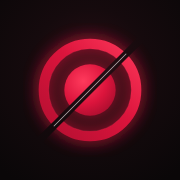
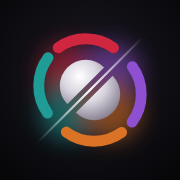
Rebrand to Clean Cut with a note-colour mark
- Name Clean Cut everywhere users see it (storage keys unchanged, so data
  carries over); top ranks become Sterling Baron / Sterling Emperor
- New mark: ring of the four note colours around a silver disc, sliced
  along the diagonal with the halves slid apart and a blade glint
- Regenerated app icons, maskable icon, favicon and all iOS launch
  screens (dev/make-icons.cjs renders them)
- Header and boot use the new mark; boot deals the arcs in, flashes the
  blade and splits the disc; wordmark 'Cut' in a four-note gradient
- SW cache v4

Claude-Session: https://claude.ai/code/session_016FJFa78rQehJuqZQJNCw58

diff --git a/index.html b/index.html
@@ -9,8 +9,8 @@
 <meta name="apple-mobile-web-app-capable" content="yes">
 <meta name="mobile-web-app-capable" content="yes">
 <meta name="apple-mobile-web-app-status-bar-style" content="black-translucent">
-<meta name="apple-mobile-web-app-title" content="Crimson Cut">
-<meta name="application-name" content="Crimson Cut">
+<meta name="apple-mobile-web-app-title" content="Clean Cut">
+<meta name="application-name" content="Clean Cut">
 <meta name="format-detection" content="telephone=no">
 
 <link rel="manifest" href="manifest.webmanifest">
@@ -32,7 +32,7 @@
 <link rel="preload" href="fonts/big-shoulders-display-latin.woff2" as="font" type="font/woff2" crossorigin>
 <link rel="preload" href="fonts/figtree-latin.woff2" as="font" type="font/woff2" crossorigin>
 <link rel="stylesheet" href="css/fonts.css">
-<title>Crimson Cut</title>
+<title>Clean Cut</title>
 <meta name="description" content="Carve every paycheck into buckets with a blade.">
 <link rel="stylesheet" href="css/app.css">
 </head>
@@ -43,20 +43,15 @@
 
 <!-- boot splash -->
 <div id="boot" class="boot" aria-hidden="true">
-  <svg class="boot-logo" viewBox="0 0 48 48">
-    <circle class="ring" cx="24" cy="24" r="19" fill="none" style="stroke:var(--crimson)" stroke-width="4"/>
-    <circle class="core" cx="24" cy="24" r="10" style="fill:var(--crimson)"/>
-    <path class="cut" d="M4 44 L44 4" stroke="#09090C" stroke-width="5" stroke-linecap="round"/>
-    <path class="edge" d="M4 44 L44 4" stroke="#F4ECEE" stroke-width="1.2" stroke-linecap="round"/>
-  </svg>
-  <div class="boot-word"><span>Crimson</span><span>Cut</span></div>
+  <svg class="boot-logo mark" viewBox="0 0 48 48"><defs><radialGradient id="svb" cx="38%" cy="32%" r="75%"><stop offset="0" stop-color="#FFFFFF"/><stop offset=".45" stop-color="#D9D5DF"/><stop offset="1" stop-color="#7E7788"/></radialGradient><clipPath id="cab"><polygon points="-10,-10 58,-10 -10,58"/></clipPath><clipPath id="cbb"><polygon points="58,-10 58,58 -10,58"/></clipPath></defs><g class="half-a"><g clip-path="url(#cab)"><g transform="rotate(-125.95 24 24)"><circle class="arc" style="--i:0" cx="24" cy="24" r="19" fill="none" stroke="#D0263F" stroke-width="4.4" stroke-linecap="round" stroke-dasharray="23.85 95.54" stroke-dashoffset="0.00"/><circle class="arc" style="--i:1" cx="24" cy="24" r="19" fill="none" stroke="#8E4FD0" stroke-width="4.4" stroke-linecap="round" stroke-dasharray="23.85 95.54" stroke-dashoffset="-29.85"/><circle class="arc" style="--i:2" cx="24" cy="24" r="19" fill="none" stroke="#DB7326" stroke-width="4.4" stroke-linecap="round" stroke-dasharray="23.85 95.54" stroke-dashoffset="-59.69"/><circle class="arc" style="--i:3" cx="24" cy="24" r="19" fill="none" stroke="#1F9C95" stroke-width="4.4" stroke-linecap="round" stroke-dasharray="23.85 95.54" stroke-dashoffset="-89.54"/></g><circle class="core" cx="24" cy="24" r="10.5" fill="url(#svb)"/></g></g><g class="half-b"><g clip-path="url(#cbb)"><g transform="rotate(-125.95 24 24)"><circle class="arc" style="--i:0" cx="24" cy="24" r="19" fill="none" stroke="#D0263F" stroke-width="4.4" stroke-linecap="round" stroke-dasharray="23.85 95.54" stroke-dashoffset="0.00"/><circle class="arc" style="--i:1" cx="24" cy="24" r="19" fill="none" stroke="#8E4FD0" stroke-width="4.4" stroke-linecap="round" stroke-dasharray="23.85 95.54" stroke-dashoffset="-29.85"/><circle class="arc" style="--i:2" cx="24" cy="24" r="19" fill="none" stroke="#DB7326" stroke-width="4.4" stroke-linecap="round" stroke-dasharray="23.85 95.54" stroke-dashoffset="-59.69"/><circle class="arc" style="--i:3" cx="24" cy="24" r="19" fill="none" stroke="#1F9C95" stroke-width="4.4" stroke-linecap="round" stroke-dasharray="23.85 95.54" stroke-dashoffset="-89.54"/></g><circle class="core" cx="24" cy="24" r="10.5" fill="url(#svb)"/></g></g><path class="blade" d="M3 45 L45 3" stroke="#fff" stroke-width=".9" stroke-linecap="round"/></svg>
+  <div class="boot-word"><span>Clean</span><span>Cut</span></div>
 </div>
 
 <div class="app" id="app">
   <header class="hdr">
-    <div class="hdr-brand" aria-label="Crimson Cut">
-      <svg viewBox="0 0 48 48" aria-hidden="true"><circle cx="24" cy="24" r="19" fill="none" style="stroke:var(--crimson)" stroke-width="4"/><circle cx="24" cy="24" r="10" style="fill:var(--crimson)"/><path d="M6 42 L42 6" stroke="#09090C" stroke-width="5" stroke-linecap="round"/><path d="M6 42 L42 6" stroke="#F4ECEE" stroke-width="1.2" stroke-linecap="round" opacity=".7"/></svg>
-      <span class="hdr-word">Crimson<b>Cut</b></span>
+    <div class="hdr-brand" aria-label="Clean Cut">
+      <svg class="mark" viewBox="0 0 48 48" aria-hidden="true"><defs><radialGradient id="svh" cx="38%" cy="32%" r="75%"><stop offset="0" stop-color="#FFFFFF"/><stop offset=".45" stop-color="#D9D5DF"/><stop offset="1" stop-color="#7E7788"/></radialGradient><clipPath id="cah"><polygon points="-10,-10 58,-10 -10,58"/></clipPath><clipPath id="cbh"><polygon points="58,-10 58,58 -10,58"/></clipPath></defs><g class="half-a"><g clip-path="url(#cah)"><g transform="rotate(-125.95 24 24)"><circle class="arc" style="--i:0" cx="24" cy="24" r="19" fill="none" stroke="#D0263F" stroke-width="4.4" stroke-linecap="round" stroke-dasharray="23.85 95.54" stroke-dashoffset="0.00"/><circle class="arc" style="--i:1" cx="24" cy="24" r="19" fill="none" stroke="#8E4FD0" stroke-width="4.4" stroke-linecap="round" stroke-dasharray="23.85 95.54" stroke-dashoffset="-29.85"/><circle class="arc" style="--i:2" cx="24" cy="24" r="19" fill="none" stroke="#DB7326" stroke-width="4.4" stroke-linecap="round" stroke-dasharray="23.85 95.54" stroke-dashoffset="-59.69"/><circle class="arc" style="--i:3" cx="24" cy="24" r="19" fill="none" stroke="#1F9C95" stroke-width="4.4" stroke-linecap="round" stroke-dasharray="23.85 95.54" stroke-dashoffset="-89.54"/></g><circle class="core" cx="24" cy="24" r="10.5" fill="url(#svh)"/></g></g><g class="half-b"><g clip-path="url(#cbh)"><g transform="rotate(-125.95 24 24)"><circle class="arc" style="--i:0" cx="24" cy="24" r="19" fill="none" stroke="#D0263F" stroke-width="4.4" stroke-linecap="round" stroke-dasharray="23.85 95.54" stroke-dashoffset="0.00"/><circle class="arc" style="--i:1" cx="24" cy="24" r="19" fill="none" stroke="#8E4FD0" stroke-width="4.4" stroke-linecap="round" stroke-dasharray="23.85 95.54" stroke-dashoffset="-29.85"/><circle class="arc" style="--i:2" cx="24" cy="24" r="19" fill="none" stroke="#DB7326" stroke-width="4.4" stroke-linecap="round" stroke-dasharray="23.85 95.54" stroke-dashoffset="-59.69"/><circle class="arc" style="--i:3" cx="24" cy="24" r="19" fill="none" stroke="#1F9C95" stroke-width="4.4" stroke-linecap="round" stroke-dasharray="23.85 95.54" stroke-dashoffset="-89.54"/></g><circle class="core" cx="24" cy="24" r="10.5" fill="url(#svh)"/></g></g><path class="blade" d="M3 45 L45 3" stroke="#fff" stroke-width=".9" stroke-linecap="round"/></svg>
+      <span class="hdr-word">Clean<b>Cut</b></span>
     </div>
     <button class="rank-pill" id="rankPill" aria-label="Your rank">
       <svg viewBox="0 0 36 36" class="rank-ring"><circle cx="18" cy="18" r="15" class="rr-track"/><circle cx="18" cy="18" r="15" class="rr-fill" id="rankRing"/></svg>
@@ -89,7 +84,7 @@
             <span class="note-denom" id="noteDenom" aria-hidden="true">50</span>
             <span class="note-top"><span class="note-label">This paycheck</span><span class="note-serial tab" id="noteSerial">CC-0001</span></span>
             <span class="note-amt"><span class="note-sym" id="noteSym">£</span><span class="odo" id="payOdo"></span></span>
-            <span class="note-bottom"><span class="micro">Crimson Cut · Legal tender for your own bullshit</span><span class="note-edit">Tap to edit</span></span>
+            <span class="note-bottom"><span class="micro">Clean Cut · Legal tender for your own bullshit</span><span class="note-edit">Tap to edit</span></span>
             <span class="example-tag" id="exampleTag">Example numbers</span>
           </button>
           <div class="chips freq" id="freq" role="group" aria-label="Pay frequency">
@@ -276,7 +271,7 @@
     <p class="hint">In Safari tap <b>Share</b>, then <b>Add to Home Screen</b>. It opens full screen like a real app and works offline.</p>
   </div>
   <button class="btn-primary" id="setDone">Done</button>
-  <p class="ver">Crimson Cut v3</p>
+  <p class="ver">Clean Cut v4</p>
 </div>
 
 <!-- cutscene stage -->

diff --git a/css/app.css b/css/app.css
@@ -53,10 +53,20 @@ button{cursor:pointer;touch-action:manipulation;-webkit-user-select:none;user-se
 /* ---------- boot ---------- */
 .boot{position:fixed;inset:0;z-index:100;background:var(--black);display:grid;place-content:center;justify-items:center;gap:18px;transition:opacity .5s ease,visibility .5s}
 .boot.gone{opacity:0;visibility:hidden}
-.boot-logo{width:96px;height:96px;overflow:visible;filter:drop-shadow(0 0 24px rgba(var(--a1),.7))}
-.boot-logo .ring{stroke-dasharray:120;stroke-dashoffset:120;animation:draw .7s var(--ease-out) forwards}
-.boot-logo .core{transform-origin:24px 24px;transform:scale(0);animation:corePop .45s var(--spring) .35s forwards}
-.boot-logo .cut,.boot-logo .edge{stroke-dasharray:57;stroke-dashoffset:57;animation:draw .18s ease-in .75s forwards}
+.boot-logo{width:104px;height:104px;overflow:visible;filter:drop-shadow(0 0 26px rgba(255,255,255,.12))}
+.mark .half-a,.mark .half-b{transform:translate(-1.7px,-1.7px)}
+.mark .half-b{transform:translate(1.7px,1.7px)}
+.mark .blade{opacity:.8;stroke-dasharray:60;stroke-dashoffset:0}
+/* boot: arcs deal in, the core lands, the blade flashes through, the halves slide apart */
+.boot-logo .arc{stroke-dasharray:0 120;animation:arcIn .55s var(--ease-out) forwards;animation-delay:calc(var(--i) * 70ms)}
+@keyframes arcIn{to{stroke-dasharray:23.85 95.53}}
+.boot-logo .core{transform-origin:24px 24px;transform:scale(0);animation:corePop .45s var(--spring) .3s forwards}
+.boot-logo .half-a,.boot-logo .half-b{transform:none;animation:halfA .45s var(--spring) .82s forwards}
+.boot-logo .half-b{animation-name:halfB}
+@keyframes halfA{to{transform:translate(-1.7px,-1.7px)}}
+@keyframes halfB{to{transform:translate(1.7px,1.7px)}}
+.boot-logo .blade{stroke-dashoffset:60;opacity:1;animation:draw .16s ease-in .72s forwards,bladeFade .5s ease-out .9s forwards}
+@keyframes bladeFade{to{opacity:.8}}
 @keyframes draw{to{stroke-dashoffset:0}}
 @keyframes corePop{to{transform:scale(1)}}
 .boot-word{display:flex;gap:.12em;font-family:var(--display);font-weight:900;font-size:44px;letter-spacing:.04em;text-transform:uppercase;line-height:1}
@@ -71,7 +81,7 @@ button{cursor:pointer;touch-action:manipulation;-webkit-user-select:none;user-se
 .app{position:relative;z-index:1;min-height:100dvh}
 .hdr{position:sticky;top:0;z-index:30;display:flex;align-items:center;gap:8px;padding:calc(var(--sat) + 10px) 16px 10px;background:linear-gradient(180deg,rgba(9,9,12,.92),rgba(9,9,12,.55) 70%,transparent);-webkit-backdrop-filter:blur(10px);backdrop-filter:blur(10px)}
 .hdr-brand{display:flex;align-items:center;gap:8px;margin-right:auto;min-width:0}
-.hdr-brand svg{width:30px;height:30px;flex:none;filter:drop-shadow(0 0 10px rgba(var(--a1),.6))}
+.hdr-brand svg{width:32px;height:32px;flex:none;overflow:visible;filter:drop-shadow(0 0 8px rgba(255,255,255,.1))}
 .hdr-word{font-family:var(--display);font-weight:900;font-size:22px;text-transform:uppercase;letter-spacing:.03em;line-height:1}
 .hdr-word b{color:var(--crimson);font-weight:900}
 @media (max-width:430px){.hdr-word{display:none}}
@@ -573,3 +583,6 @@ body,.note,.btn-primary,.chip,.cut-track,.tabbar,.pending-strip{transition-prope
 .note-pick [data-note="20"]{--nc:#8E4FD0}.note-pick [data-note="10"]{--nc:#DB7326}.note-pick [data-note="5"]{--nc:#1F9C95}
 .note-pick button[aria-pressed="true"]{border-color:#fff;transform:translateY(-2px) scale(1.06);box-shadow:0 6px 18px -4px var(--nc)}
 .note-pick button:active{transform:scale(.92)}
+/* brand wordmark: "Cut" wears all four notes, whatever theme is picked */
+.hdr-word b,.boot-word span:last-child{background:linear-gradient(90deg,#FF4B62,#B98AF5 40%,#FFA257 70%,#4FD6CE);-webkit-background-clip:text;background-clip:text;color:transparent;text-shadow:none}
+.boot-word span:last-child{filter:drop-shadow(0 0 18px rgba(185,138,245,.35))}

diff --git a/js/vaultdoor.js b/js/vaultdoor.js
@@ -1,4 +1,4 @@
-// Crimson Cut - vault door.
+// Clean Cut - vault door.
 //
 // A heavy round safe door that covers an element (the Vault hero) and opens:
 // dial spins L/R/L, the spoked wheel ratchets round, the bolts slam back,
@@ -162,9 +162,9 @@ function faceSvg(id) {
     <circle r="31.1" fill="none" stroke="rgba(255,170,185,.45)" stroke-width=".12"/>
     <!-- engraved, crimson-filled lettering -->
     <g class="vd-engrave">
-      <text transform="translate(0 .26)" fill="rgba(255,240,244,.2)"><textPath href="#${id}arcT" startOffset="50%" text-anchor="middle">CRIMSON &#x2022; CUT</textPath></text>
-      <text transform="translate(0 -.16)" fill="#050304"><textPath href="#${id}arcT" startOffset="50%" text-anchor="middle">CRIMSON &#x2022; CUT</textPath></text>
-      <text fill="url(#${id}enamel)"><textPath href="#${id}arcT" startOffset="50%" text-anchor="middle">CRIMSON &#x2022; CUT</textPath></text>
+      <text transform="translate(0 .26)" fill="rgba(255,240,244,.2)"><textPath href="#${id}arcT" startOffset="50%" text-anchor="middle">CLEAN &#x2022; CUT</textPath></text>
+      <text transform="translate(0 -.16)" fill="#050304"><textPath href="#${id}arcT" startOffset="50%" text-anchor="middle">CLEAN &#x2022; CUT</textPath></text>
+      <text fill="url(#${id}enamel)"><textPath href="#${id}arcT" startOffset="50%" text-anchor="middle">CLEAN &#x2022; CUT</textPath></text>
     </g>
     <g class="vd-engrave-sm">
       <text x="27.2" y="5.2" text-anchor="middle" fill="rgba(255,240,244,.14)" transform="translate(0 .15)">SEAL</text>
@@ -249,7 +249,7 @@ function build(id) {
     <div class="vd-wall">
       <div class="vd-boxes vd-boxes-l"></div><div class="vd-boxes vd-boxes-r"></div>
       <div class="vd-side vd-side-l"><div class="vd-gauge"><div class="vd-gauge-face">${gaugeSvg(id)}<i class="vd-needle"></i><b></b></div></div></div>
-      <div class="vd-side vd-side-r"><div class="vd-name"><span class="vd-name-t">Crimson <em>Cut</em></span><span class="vd-name-s">Reserve vault &middot; N&ordm; 0451</span><i></i><i></i><i></i><i></i></div></div>
+      <div class="vd-side vd-side-r"><div class="vd-name"><span class="vd-name-t">Clean <em>Cut</em></span><span class="vd-name-s">Reserve vault &middot; N&ordm; 0451</span><i></i><i></i><i></i><i></i></div></div>
     </div>
     <div class="vd-c vd-mid">
       <div class="vd-ring"><div class="vd-chshade"></div>${ringSvg(id)}</div>

diff --git a/js/app.js b/js/app.js
@@ -1096,11 +1096,11 @@ $('#setCur').addEventListener('change', e => {
 });
 $('#setPayday').addEventListener('change', e => { state.nextPayday = e.target.value || null; save(); renderHeader(); Sound.play('tap'); });
 $('#exportBtn').addEventListener('click', async () => {
-  const name = `crimson-cut-backup-${new Date().toISOString().slice(0, 10)}.json`;
+  const name = `clean-cut-backup-${new Date().toISOString().slice(0, 10)}.json`;
   const blob = new Blob([exportJSON()], { type: 'application/json' });
   try {
     const file = new File([blob], name, { type: 'application/json' });
-    if (navigator.canShare && navigator.canShare({ files: [file] })) { await navigator.share({ files: [file], title: 'Crimson Cut backup' }); toast('Backup exported'); return; }
+    if (navigator.canShare && navigator.canShare({ files: [file] })) { await navigator.share({ files: [file], title: 'Clean Cut backup' }); toast('Backup exported'); return; }
   } catch (e) { if (e && e.name === 'AbortError') return; }
   const a = document.createElement('a'); a.href = URL.createObjectURL(blob); a.download = name;
   document.body.appendChild(a); a.click(); a.remove(); setTimeout(() => URL.revokeObjectURL(a.href), 4000);
@@ -1114,7 +1114,7 @@ $('#importFile').addEventListener('change', async e => {
     replaceState(data); mkFormat(); seen.clear(); applySettings(); renderAll();
     lastLevel = progress ? progress.evaluate(state).level : 1;
     Sound.play('sweep'); Haptics.success(); toast('Backup restored'); closeSheet();
-  } catch (err) { Sound.play('error'); Haptics.error(); toast("That file isn't a Crimson Cut backup"); }
+  } catch (err) { Sound.play('error'); Haptics.error(); toast("That file isn't a Clean Cut backup"); }
   e.target.value = '';
 });
 let rankArm;

diff --git a/js/bankrun.js b/js/bankrun.js
@@ -1,4 +1,4 @@
-// Crimson Cut: the Transfer Run.
+// Clean Cut: the Transfer Run.
 // The app can't move real money. After a cut you move each amount yourself in your bank
 // app, then stamp the matching slip BANKED here. Until every slip is stamped the split
 // stays pending. Self-contained: builds its own overlay and injects css/bankrun.css.
@@ -266,7 +266,7 @@ function createRun(o) {
               <div class="slip-r1"><span class="slip-kind">Transfer slip</span><span class="slip-no">No. ${esc(no)}</span></div>
               <div class="slip-payee"><small>Pay to</small><b>${esc(p.name)}</b></div>
               <div class="slip-amt" aria-hidden="true">${m.pre ? `<span class="sym">${esc(m.pre)}</span>` : ''}<span class="int">${esc(m.int)}</span>${m.dec ? `<span class="dec">${esc(m.dec)}</span>` : ''}${m.post ? `<span class="sym post">${esc(m.post)}</span>` : ''}</div>
-              <div class="slip-words" aria-hidden="true">${esc(amountWords(p.amt, m.pre || m.post) || 'Crimson Cut transfer slip')}</div>
+              <div class="slip-words" aria-hidden="true">${esc(amountWords(p.amt, m.pre || m.post) || 'Clean Cut transfer slip')}</div>
               <div class="slip-acts">
                 <button type="button" class="slip-copy" data-act="copy" aria-label="Copy ${esc(plain)}, the amount for ${esc(p.name)}">${IC.copy}${IC.tick}<span>Copy amount</span></button>
                 <button type="button" class="slip-go" data-act="stamp" aria-label="Stamp ${esc(p.name)} as banked">${IC.stamp}<span>Stamp it</span></button>

diff --git a/dev/pwa-test.html b/dev/pwa-test.html
@@ -1,18 +1,18 @@
 <!doctype html>
 <html lang="en"><head>
-<!-- Crimson Cut: PWA <head> tags. Paste at the top of <head> in index.html.
+<!-- Clean Cut: PWA <head> tags. Paste at the top of <head> in index.html.
      All paths are relative (works at a domain root and under /finance-splitter/). -->
 <meta charset="utf-8">
 <meta name="viewport" content="width=device-width, initial-scale=1, viewport-fit=cover, maximum-scale=1, user-scalable=no">
-<title>Crimson Cut</title>
+<title>Clean Cut</title>
 <meta name="description" content="Split every paycheck into bills, savings and spending in one animated cut.">
 <meta name="theme-color" content="#0A0708">
 <meta name="color-scheme" content="dark">
 <meta name="apple-mobile-web-app-capable" content="yes">
 <meta name="mobile-web-app-capable" content="yes">
 <meta name="apple-mobile-web-app-status-bar-style" content="black-translucent">
-<meta name="apple-mobile-web-app-title" content="Crimson Cut">
-<meta name="application-name" content="Crimson Cut">
+<meta name="apple-mobile-web-app-title" content="Clean Cut">
+<meta name="application-name" content="Clean Cut">
 <meta name="format-detection" content="telephone=no">
 
 <link rel="manifest" href="../manifest.webmanifest">

diff --git a/dev/pwa-head.html b/dev/pwa-head.html
@@ -1,16 +1,16 @@
-<!-- Crimson Cut: PWA <head> tags. Paste at the top of <head> in index.html.
+<!-- Clean Cut: PWA <head> tags. Paste at the top of <head> in index.html.
      All paths are relative (works at a domain root and under /finance-splitter/). -->
 <meta charset="utf-8">
 <meta name="viewport" content="width=device-width, initial-scale=1, viewport-fit=cover, maximum-scale=1, user-scalable=no">
-<title>Crimson Cut</title>
+<title>Clean Cut</title>
 <meta name="description" content="Split every paycheck into bills, savings and spending in one animated cut.">
 <meta name="theme-color" content="#0A0708">
 <meta name="color-scheme" content="dark">
 <meta name="apple-mobile-web-app-capable" content="yes">
 <meta name="mobile-web-app-capable" content="yes">
 <meta name="apple-mobile-web-app-status-bar-style" content="black-translucent">
-<meta name="apple-mobile-web-app-title" content="Crimson Cut">
-<meta name="application-name" content="Crimson Cut">
+<meta name="apple-mobile-web-app-title" content="Clean Cut">
+<meta name="application-name" content="Clean Cut">
 <meta name="format-detection" content="telephone=no">
 
 <link rel="manifest" href="manifest.webmanifest">

diff --git a/js/fx.js b/js/fx.js
@@ -1,4 +1,4 @@
-// Crimson Cut — fx.js
+// Clean Cut — fx.js
 // One full-screen 2D canvas overlay: particles, blade trail, flashes, shockwaves
 // and the banknote-splitting cutscene. No sound, no deps.
 
@@ -188,7 +188,7 @@ function renderNoteFront(w, h, dpr, note) {
   rrect(g, 4.5, 4.5, w - 9, h - 9, rad - 3); g.stroke();
   g.strokeStyle = 'rgba(244,236,238,0.22)'; g.lineWidth = 0.6;
   rrect(g, 11.5, 11.5, w - 23, h - 23, rad - 6); g.stroke();
-  const micro = 'CRIMSON CUT • ';
+  const micro = 'CLEAN CUT • ';
   g.font = `600 4.6px ${MONO}`;
   g.fillStyle = rgba(C.soft, 0.75);
   g.textAlign = 'left'; g.textBaseline = 'middle';
@@ -276,7 +276,7 @@ function renderNoteBack(w, h, dpr) {
   g.font = `900 ${Math.round(h * 0.22)}px ${DISPLAY}`;
   g.textAlign = 'center'; g.textBaseline = 'middle';
   setSpacing(g, 3);
-  g.fillText('CRIMSON CUT', w / 2, h / 2);
+  g.fillText('CLEAN CUT', w / 2, h / 2);
   setSpacing(g, 0);
   g.strokeStyle = rgba(C.hi, 0.5); g.lineWidth = 1;
   rrect(g, 4.5, 4.5, w - 9, h - 9, rad - 3); g.stroke();

diff --git a/js/progress.js b/js/progress.js
@@ -1,4 +1,4 @@
-// Crimson Cut: gamification logic. Pure functions, no DOM, no deps.
+// Clean Cut: gamification logic. Pure functions, no DOM, no deps.
 // Everything here is derived from app state, so it can be recomputed at any time.
 
 const DAY = 86400000;
@@ -33,9 +33,9 @@ export const LEVELS = [
   { level: 11, name: 'Compound Interest Hooligan', xp: 9500 },
   { level: 12, name: 'Tax-Efficient Warlord', xp: 12500 },
   { level: 13, name: "Bank Manager's Nightmare", xp: 16000 },
-  { level: 14, name: 'Crimson Baron', xp: 20000 },
+  { level: 14, name: 'Sterling Baron', xp: 20000 },
   { level: 15, name: 'Grand Vizier of Wedge', xp: 25000 },
-  { level: 16, name: 'Crimson Emperor', xp: 32000 },
+  { level: 16, name: 'Sterling Emperor', xp: 32000 },
 ];
 
 export function isSavings(name) {

diff --git a/dev/fx.html b/dev/fx.html
@@ -3,7 +3,7 @@
 <head>
 <meta charset="utf-8">
 <meta name="viewport" content="width=device-width,initial-scale=1,viewport-fit=cover">
-<title>Crimson Cut FX Lab</title>
+<title>Clean Cut FX Lab</title>
 <link rel="preconnect" href="https://fonts.googleapis.com">
 <link rel="preconnect" href="https://fonts.gstatic.com" crossorigin>
 <link rel="stylesheet" href="https://fonts.googleapis.com/css2?family=Big+Shoulders+Display:wght@800;900&family=JetBrains+Mono:wght@400;600&display=swap">

diff --git a/sw.js b/sw.js
@@ -1,6 +1,6 @@
-/* Crimson Cut service worker. All paths are relative to this file's scope,
+/* Clean Cut service worker. All paths are relative to this file's scope,
    so it works at a domain root (Netlify) or under a sub-path (GitHub Pages). */
-const VERSION = 'cc-v3.2-2026-09-24';
+const VERSION = 'cc-v4-2026-09-24';
 const PREFIX = 'cc-';
 
 const SHELL = [

diff --git a/dev/bg.html b/dev/bg.html
@@ -25,7 +25,7 @@ input[type=range]{width:100%;accent-color:var(--crimson)}
 <canvas id="bg"></canvas>
 <div class="ui">
   <div class="card">
-    <h1>Crimson Cut</h1>
+    <h1>Clean Cut</h1>
     <p>Background bench. Click anywhere on the background to pulse. Move the mouse to tilt.</p>
     <div class="big">$2,480.00</div>
   </div>
